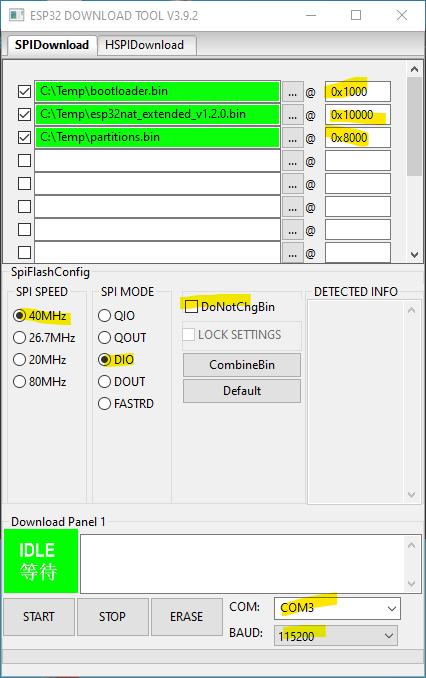
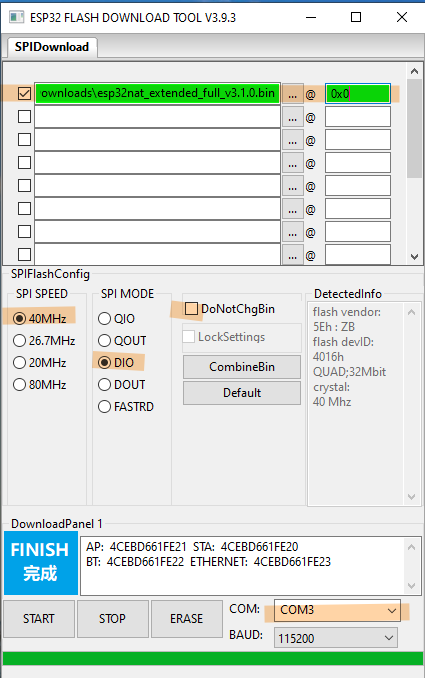
Simplified flashing and updated docs

Changed region(s): [[0.0, 0.0, 1.0, 1.0], [0.2141, 0.4027, 0.3671, 0.6195]]

diff --git a/src/pages/config.html b/src/pages/config.html
@@ -1,1 +1,2 @@
-<!DOCTYPE html><html lang=en> <head><link href=favicon.ico rel="shortcut icon" type=image/x-icon><meta charset=utf-8><meta content="IE=edge" http-equiv=X-UA-Compatible><meta content="width=device-width, initial-scale=1" name=viewport><link href=styles-9ee3c4491d35b3c1d830fa9da31c7861.css rel=stylesheet><title>Configuration</title></head> <body> <div class=container> <div class="row text-center p-3"> <h1>ESP32 NAT Router Config <button class="btn btn-light float-end" data-bs-target=#information data-bs-toggle=modal title=About type=button>?</button></h1> </div> <form action=apply method=POST> <input name=func type=hidden value=config> <h2>AP Settings (the new network)</h2> <span class=text-info><span id=clients>%d</span> client(s) connected</span> <div class="form-group row"> <label class=col-3 for=ap_ssid>SSID</label> <div class=col-9> <input class=form-control id=ap_ssid maxlength=32 name=ap_ssid placeholder="SSID of the new network" type=text value=%s> </div> </div> <div class="form-group row mt-2"> <label class=col-3 for=ap_password>Password</label> <div class=col-9> <div class=input-group> <input class="form-control col-9" id=ap_password maxlength=64 name=ap_password placeholder="Password of the new network" type=password value=%s> <span class="input-group-text password" style="cursor: pointer;" title="show password">☀</span> </div> </div> </div> <div class="form-group row col-9 offset-3"> <small class="form-text text-muted">Password less than 8 chars = open</small> </div> <h2 class=mt-2>STA Settings (uplink WiFi network)</h2> <span class=text-%s id=sta><span id=symbol>%s</span> (signal strength: <span id=db>%s</span> db)</span> <div class="form-group row"> <label class=col-3 for=ssid>SSID</label> <div class=col-9> <input class=form-control id=ssid maxlength=32 name=ssid placeholder="SSID of the existing network" type=text value=%s> </div> </div> <div class="form-group row mt-2"> <label class=col-3 for=password>Password</label> <div class=col-9> <div class=input-group> <input class=form-control id=password maxlength=64 name=password placeholder="Password of the existing network" type=password value=%s> <span class="input-group-text password" style="cursor: pointer;" title="show password">☀</span> </div> </div> <input class=form-control name=x type=hidden value=x> </div> <div class="form-group row col-4 offset-4 mt-4"> <input class="btn btn-primary" type=submit value="Apply changes"> </div> </form> <h2 class=mt-2>Device Management</h2> <form action=scan method=GET> <div class="form-group row col-4 offset-4 mt-2"> <input class="btn btn-light" type=submit value="Wifi Scan"> </div> </form> <form action=apply method=POST> <div class="form-group row col-4 offset-4 mt-2"> <input name=func type=hidden value=reboot> <input class="btn btn-light" type=submit value=reboot> </div> </form> <form action=lock method=GET> <div class="form-group row col-4 offset-4 mt-2"> <input class="btn btn-light" type=submit value="Lock Interface"> </div> </form> <form action=unlock method=GET style="display: %s;"> <div class="form-group row col-4 offset-4 mt-2"> <input class="btn btn-light" type=submit value="Relock Interface"> </div> </form> <form action=advanced method=GET> <div class="form-group row col-4 offset-4 mt-5"> <input class="btn btn-warning" type=submit value=Advanced> </div> </form> </div> <div aria-hidden=true class="modal fade" id=information tabindex=-1> <div class=modal-dialog> <div class=modal-content> <div class=modal-header> <h5 class=modal-title>About</h5> <button aria-label=Close class=btn-close data-bs-dismiss=modal type=button></button> </div> <div class=modal-body> <table class="table table-striped"> <tbody> <tr> <td colspan=2>ESP32 NAT Router is a simple micro controller based range extender. This can also be used to open a second (guest) Wifi. <p>This is a spare time project. If you have any questions or issues, feel free to ask at the Github project page. </p> </td> </tr> <tr> <td>Version</td> <td id=version>3.1.0</td> </tr> <tr> <td>Hash</td> <td id=hash>f617d90</td> </tr> <tr> <td>Release date</td> <td id=date>24.10.2022</td> </tr> <tr> <td class=text-center colspan=2><a class="btn btn-link" href=https://github.com/dchristl/esp32_nat_router_extended target=_blank>Project page at GitHub</a></td> </tr> <tr> <td class=text-center colspan=2><a class="btn btn-link" href=https://www.buymeacoffee.com/dchristl target=_blank>Support my work, just buy me coffee</a> </td> </tr> </tbody> </table> </div> <div class=modal-footer> <button class="btn btn-light" data-bs-dismiss=modal type=button>Close</button> </div> </div> </div> </div> <script src=jquery.js></script> <script src=bootstrap.js></script> <script>     $('.password').on('mousedown mouseup mouseout touchstart touchend', function mouseState(e) { var field = $(this).parent().find('input'); if (e.type == "mousedown" || e.type == "touchstart") { field.get(0).type = 'text'; } else { field.get(0).type = 'password'; } });</script> <script>     (function poll() { $.ajax({ url: "/api", type: "GET", success: function (data) { console.log(data); $('#clients').text(data.clients); $('#db').text(data.strength); $('#sta').removeClass(); $('#sta').addClass('text-' + data.text); $('#symbol').html(data.symbol); }, dataType: "json", complete: setTimeout(function () { poll(); }, 3000), timeout: 3000 }) })();</script> </body> </html>
+<!DOCTYPE html>
+<html lang="en"> <head><link href="favicon.ico" rel="shortcut icon" type="image/x-icon"/><meta charset="utf-8"/><meta content="IE=edge" http-equiv="X-UA-Compatible"/><meta content="width=device-width, initial-scale=1" name="viewport"/><link href="styles-9ee3c4491d35b3c1d830fa9da31c7861.css" rel="stylesheet"/><title>Configuration</title></head> <body> <div class="container"> <div class="row text-center p-3"> <h1>ESP32 NAT Router Config <button class="btn btn-light float-end" data-bs-target="#information" data-bs-toggle="modal" title="About" type="button">?</button></h1> </div> <form action="apply" method="POST"> <input name="func" type="hidden" value="config"/> <h2>AP Settings (the new network)</h2> <span class="text-info"><span id="clients">%d</span> client(s) connected</span> <div class="form-group row"> <label class="col-3" for="ap_ssid">SSID</label> <div class="col-9"> <input class="form-control" id="ap_ssid" maxlength="32" name="ap_ssid" placeholder="SSID of the new network" type="text" value="%s"/> </div> </div> <div class="form-group row mt-2"> <label class="col-3" for="ap_password">Password</label> <div class="col-9"> <div class="input-group"> <input class="form-control col-9" id="ap_password" maxlength="64" name="ap_password" placeholder="Password of the new network" type="password" value="%s"/> <span class="input-group-text password" style="cursor: pointer;" title="show password">☀</span> </div> </div> </div> <div class="form-group row col-9 offset-3"> <small class="form-text text-muted">Password less than 8 chars = open</small> </div> <h2 class="mt-2">STA Settings (uplink WiFi network)</h2> <span class="text-%s" id="sta"><span id="symbol">%s</span> (signal strength: <span id="db">%s</span> db)</span> <div class="form-group row"> <label class="col-3" for="ssid">SSID</label> <div class="col-9"> <input class="form-control" id="ssid" maxlength="32" name="ssid" placeholder="SSID of the existing network" type="text" value="%s"/> </div> </div> <div class="form-group row mt-2"> <label class="col-3" for="password">Password</label> <div class="col-9"> <div class="input-group"> <input class="form-control" id="password" maxlength="64" name="password" placeholder="Password of the existing network" type="password" value="%s"/> <span class="input-group-text password" style="cursor: pointer;" title="show password">☀</span> </div> </div> <input class="form-control" name="x" type="hidden" value="x"/> </div> <div class="form-group row col-4 offset-4 mt-4"> <input class="btn btn-primary" type="submit" value="Apply changes"/> </div> </form> <h2 class="mt-2">Device Management</h2> <form action="scan" method="GET"> <div class="form-group row col-4 offset-4 mt-2"> <input class="btn btn-light" type="submit" value="Wifi Scan"/> </div> </form> <form action="apply" method="POST"> <div class="form-group row col-4 offset-4 mt-2"> <input name="func" type="hidden" value="reboot"/> <input class="btn btn-light" type="submit" value="reboot"/> </div> </form> <form action="lock" method="GET"> <div class="form-group row col-4 offset-4 mt-2"> <input class="btn btn-light" type="submit" value="Lock Interface"/> </div> </form> <form action="unlock" method="GET" style="display: %s;"> <div class="form-group row col-4 offset-4 mt-2"> <input class="btn btn-light" type="submit" value="Relock Interface"/> </div> </form> <form action="advanced" method="GET"> <div class="form-group row col-4 offset-4 mt-5"> <input class="btn btn-warning" type="submit" value="Advanced"/> </div> </form> </div> <div aria-hidden="true" class="modal fade" id="information" tabindex="-1"> <div class="modal-dialog"> <div class="modal-content"> <div class="modal-header"> <h5 class="modal-title">About</h5> <button aria-label="Close" class="btn-close" data-bs-dismiss="modal" type="button"></button> </div> <div class="modal-body"> <table class="table table-striped"> <tbody> <tr> <td colspan="2">ESP32 NAT Router is a simple micro controller based range extender. This can also be used to open a second (guest) Wifi. <p>This is a spare time project. If you have any questions or issues, feel free to ask at the Github project page. </p> </td> </tr> <tr> <td>Version</td> <td id="version">3.1.0</td> </tr> <tr> <td>Hash</td> <td id="hash">b2a18ff</td> </tr> <tr> <td>Release date</td> <td id="date">24.11.2022</td> </tr> <tr> <td class="text-center" colspan="2"><a class="btn btn-link" href="https://github.com/dchristl/esp32_nat_router_extended" target="_blank">Project page at GitHub</a></td> </tr> <tr> <td class="text-center" colspan="2"><a class="btn btn-link" href="https://www.buymeacoffee.com/dchristl" target="_blank">Support my work, just buy me coffee</a> </td> </tr> </tbody> </table> </div> <div class="modal-footer"> <button class="btn btn-light" data-bs-dismiss="modal" type="button">Close</button> </div> </div> </div> </div> <script src="jquery.js"></script> <script src="bootstrap.js"></script> <script>     $('.password').on('mousedown mouseup mouseout touchstart touchend', function mouseState(e) { var field = $(this).parent().find('input'); if (e.type == "mousedown" || e.type == "touchstart") { field.get(0).type = 'text'; } else { field.get(0).type = 'password'; } });</script> <script>     (function poll() { $.ajax({ url: "/api", type: "GET", success: function (data) { console.log(data); $('#clients').text(data.clients); $('#db').text(data.strength); $('#sta').removeClass(); $('#sta').addClass('text-' + data.text); $('#symbol').html(data.symbol); }, dataType: "json", complete: setTimeout(function () { poll(); }, 3000), timeout: 3000 }) })();</script> </body> </html>

diff --git a/build.py b/build.py
@@ -9,6 +9,8 @@ import subprocess
 import glob
 from bs4 import BeautifulSoup
 from datetime import date
+import zipfile
+from os.path import basename
 
 
 def shrinkHtml():
@@ -63,21 +65,30 @@ def copyAndRenameBinaries(version):
     os.mkdir('release')
     shutil.copyfile('.pio/build/esp32dev/firmware.bin',
                     'release/esp32nat_extended_v' + version + '.bin')
-    shutil.make_archive('tmp/esp32nat_extended_v' +
-                        version, 'zip', 'release')
     shutil.copyfile('.pio/build/esp32dev/bootloader.bin',
                     'release/bootloader.bin')
     shutil.copyfile('.pio/build/esp32dev/partitions.bin',
                     'release/partitions.bin')
-    shutil.rmtree("tmp")
 
 
 def buildOneBin(version):
-    os.system('esptool.py --chip esp32 merge_bin -o release/esp32_nat_extended_full_v' + version + '.bin --flash_freq 40m --flash_size keep 0x1000 ' + 
-    'release/bootloader.bin 0x10000 release/esp32nat_extended_v'+ version + '.bin 0x8000 release/partitions.bin')
-    # esptool.py --chip esp32 merge_bin -o flash_image.bin --flash_mode dio --flash_freq 40m --flash_size keep 0x1000 bootloader.bin 0x10000 esp32nat_extended_v3.0.1.bin 0x8000 partitions.bin
+    os.system('esptool.py --chip esp32 merge_bin -o release/esp32nat_extended_full_v' + version + '.bin --flash_freq 40m --flash_size keep 0x1000 ' +
+              'release/bootloader.bin 0x10000 release/esp32nat_extended_v' + version + '.bin 0x8000 release/partitions.bin')
 
-    
+
+def makeArchives(version):
+    zipObj = zipfile.ZipFile('release/esp32nat_extended_update_v' +
+                             version + '.zip', 'w', zipfile.ZIP_DEFLATED)
+    zipObj.write('release/esp32nat_extended_v' + version +
+                 '.bin', 'esp32nat_extended_v' + version + '.bin')
+    zipObj.close()
+    zipObj = zipfile.ZipFile('release/esp32nat_extended_full_v' +
+                             version + '.zip', 'w', zipfile.ZIP_DEFLATED)
+    zipObj.write('release/esp32nat_extended_full_v' + version +
+                 '.bin', 'esp32nat_extended_full_v' + version + '.bin')
+    zipObj.close()
+
+
 def buildRelease(version):
     shrinkHtml()
     commitAndPush(version)
@@ -85,6 +96,7 @@ def buildRelease(version):
     cleanAndBuild()
     copyAndRenameBinaries(version)
     buildOneBin(version)
+    makeArchives(version)
 
 
 def main(argv):

diff --git a/README.md b/README.md
@@ -43,7 +43,7 @@ Now you can reconnect and reload the page and change the "Soft AP Settings". Cli
 ## Flashing the prebuild binaries
 - Download [latest release](https://github.com/dchristl/esp32_nat_router_extended/releases/latest)
   * Download esp32nat_extended_full_vX.X.X.zip for fresh install
-  * Download esp32nat_extended_vX.X.X.zip for update
+  * Download esp32nat_extended_update_vX.X.X.zip for update
 - Install [esptool](https://github.com/espressif/esptool)
  
 
@@ -53,7 +53,7 @@ If your device was used before for other projects or you want to reset all setti
 Unpack archive first and then execute:
 
 ```
-esptool.py  --baud 115200 --before default_reset --after hard_reset write_flash -z --flash_mode dio --flash_freq 40m --flash_size detect 0x1000 bootloader.bin 0x10000 esp32nat_extended_vX.X.X.bin 0x8000 partitions.bin
+esptool.py write_flash 0x0 esp32nat_extended_full_vX.X.X.bin 
 
 ```
 
